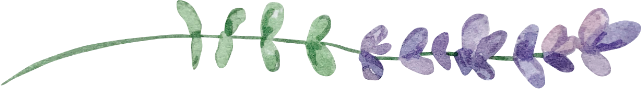
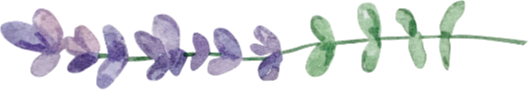
Renamed to ostatni

diff --git a/index.html b/index.html
@@ -277,16 +277,19 @@ nav {
   font-family: 'Euphoria Script', cursive;
   font-size: clamp(1.8rem, 3.5vw, 2.6rem);
   color: var(--bark); line-height: 1.05; text-align: center; margin-bottom: 3rem;
-  display: flex; flex-direction: column; align-items: center; gap: 0.6rem;
+  display: grid; grid-template-columns: 1fr auto 1fr; align-items: center; gap: 0.5rem;
 }
-.sec-title i { font-style: normal; color: var(--earth); }
+.sec-title i { font-style: normal; color: var(--earth); text-wrap: nowrap; }
+.sec-title::before,
 .sec-title::after {
   content: '';
   display: block;
-  width: clamp(10rem, 40vw, 22rem);
-  aspect-ratio: 1135 / 91;
-  background: url('img/section_bottom1.png') no-repeat center / contain;
+  height: 1.5rem;
+  aspect-ratio: 641 / 89;
+  background: url('img/section_side1.png') no-repeat center / contain;
 }
+.sec-title::before { justify-self: end; }
+.sec-title::after { justify-self: start; transform: scaleX(-1) scaleY(-1); }
 
 .placeholder {
   padding: 4rem 2.5rem; display: flex; align-items: center; justify-content: center;
@@ -761,7 +764,7 @@ footer { position: relative; }
 
     <span class="nav-heart"><svg xmlns="http://www.w3.org/2000/svg" viewBox="0 0 24 24" fill="currentColor" aria-hidden="true"><path d="M12 21.35l-1.45-1.32C5.4 15.36 2 12.28 2 8.5 2 5.42 4.42 3 7.5 3c1.74 0 3.41.81 4.5 2.09C13.09 3.81 14.76 3 16.5 3 19.58 3 22 5.42 22 8.5c0 3.78-3.4 6.86-8.55 11.54L12 21.35z"/></svg></span>
 
-    <!-- Další informace -->
+    <!-- Ostatní -->
     <a class="nav-tile" href="#dalsi-informace">
       <div class="nav-tile-icon-wrap">
         <svg class="nav-tile-icon" viewBox="0 0 24 24" fill="none" stroke="#6a7c52" stroke-width="1.5" stroke-linecap="round" stroke-linejoin="round" xmlns="http://www.w3.org/2000/svg">
@@ -770,7 +773,7 @@ footer { position: relative; }
           <circle cx="12" cy="8.5" r="0.9" fill="#6a7c52" stroke="none"/>
         </svg>
       </div>
-      <span class="nav-tile-label">Další informace</span>
+      <span class="nav-tile-label">Ostatní</span>
     </a>
 
   </div>
@@ -950,11 +953,11 @@ footer { position: relative; }
 <section class="section" id="program">
   <div class="sec-inner">
     <div class="sec-body">
-    <div class="program-center">
     <div class="reveal">
       <p class="sec-eyebrow">Program</p>
       <h2 class="sec-title"><i>Program</i></h2>
     </div>
+    <div class="program-center">
     <div class="reveal">
       <div class="timeline">
 
@@ -1080,8 +1083,8 @@ footer { position: relative; }
   <div class="sec-inner">
     <div class="sec-body">
     <div class="reveal">
-      <p class="sec-eyebrow">Další informace</p>
-      <h2 class="sec-title"><i>Další informace</i></h2>
+      <p class="sec-eyebrow">Ostatní</p>
+      <h2 class="sec-title"><i>Ostatní</i></h2>
     </div>
     <div class="reveal">
       <h3 class="subsec-title">Kouření</h3>
